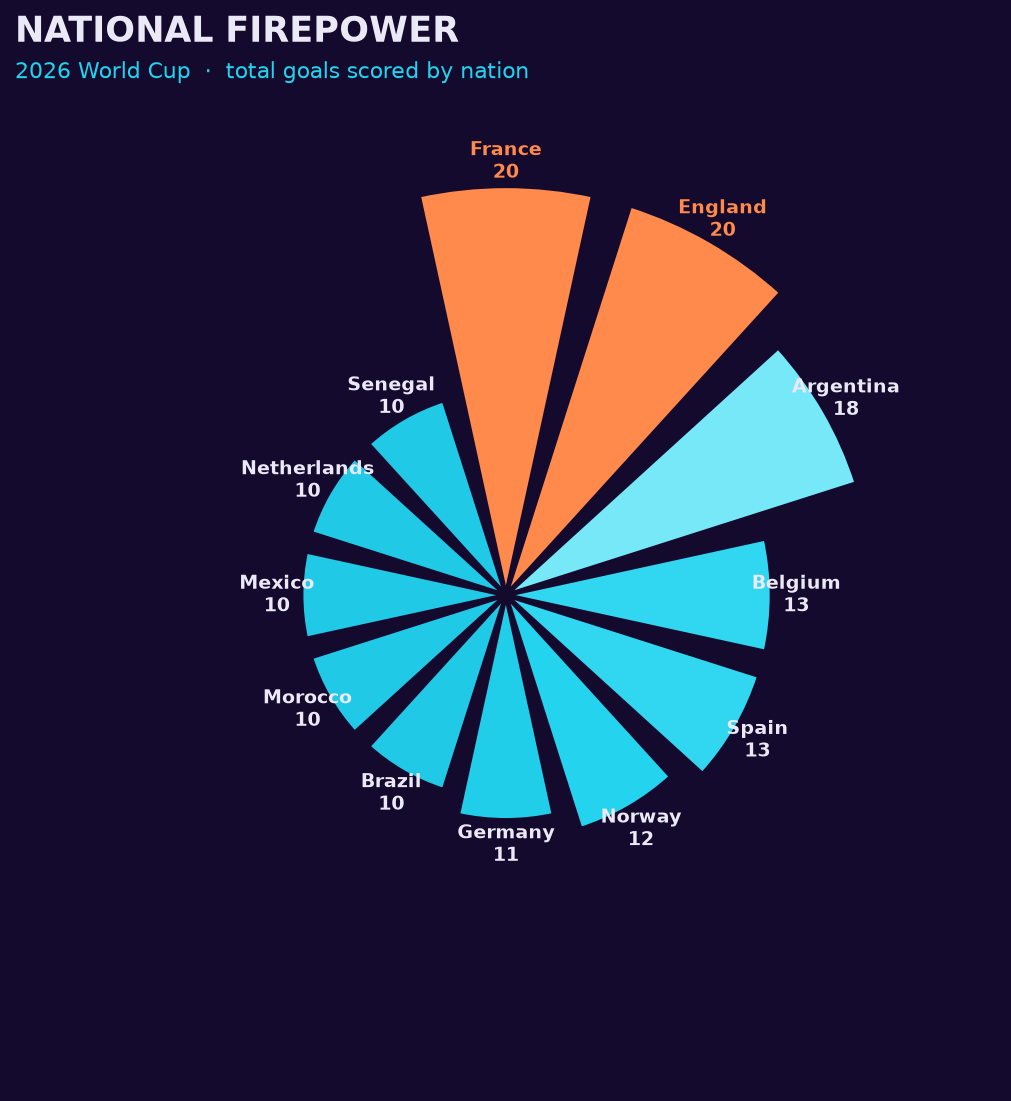
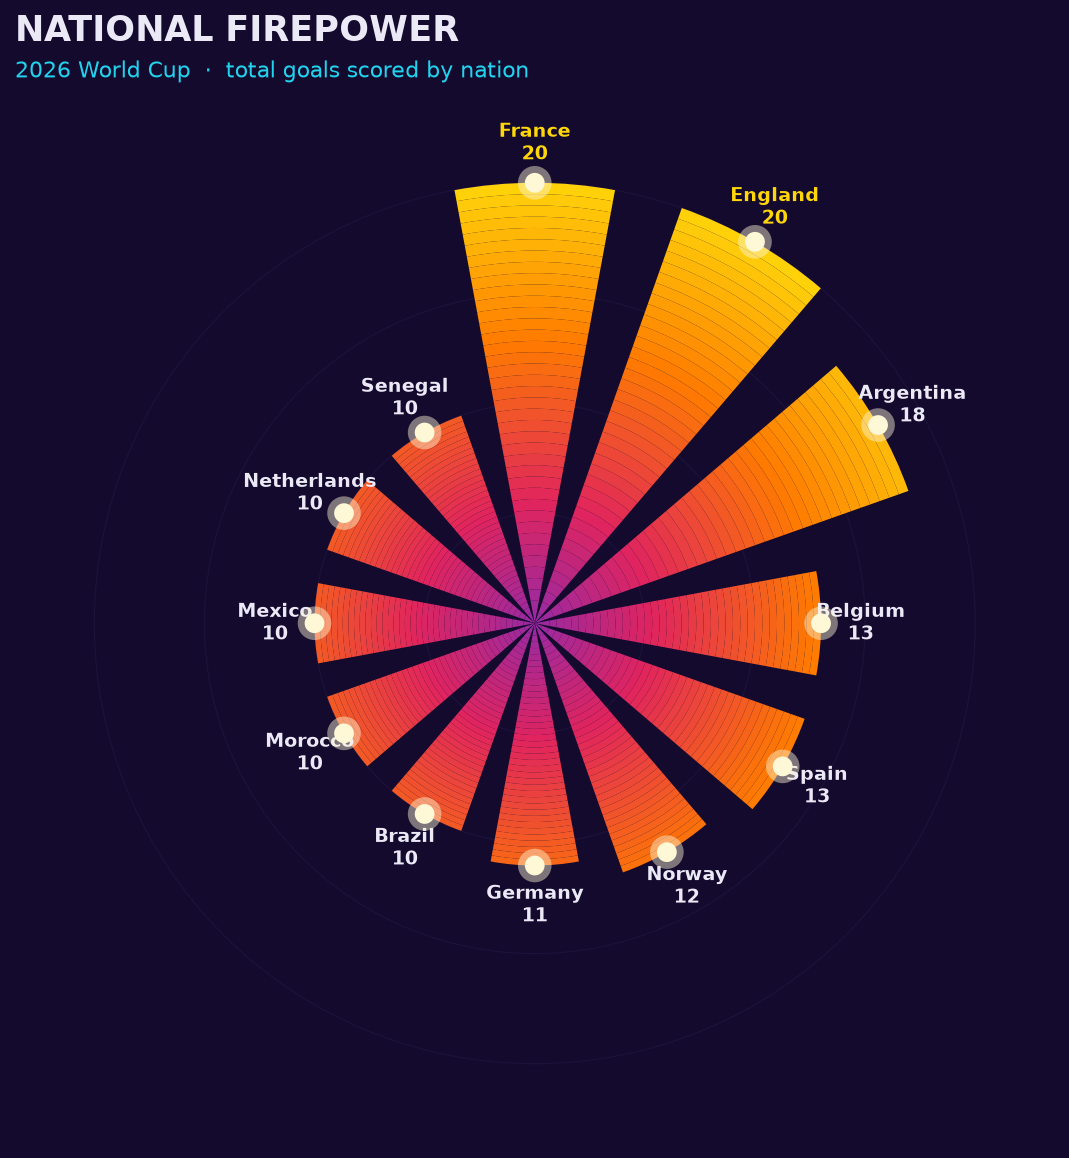
Redesign National Firepower as glowing radial flames
Replace the flat teal radial bars with a warm "firepower" look: each nation
is a flame that heats along its length from a violet base to a gold-hot tip
(a per-bar radius gradient), topped with a glowing bead. Bar length and tip
colour both encode goals, so the biggest sides burn brightest. Drops the
teal ramp for the fire ramp; core.py stays under 200 lines. Updates README.

Claude-Session: https://claude.ai/code/session_0148bkKPynfV42gg72x8rxXR

Changed region(s): [[0.0, 0.0, 0.8892, 0.8029]]

diff --git a/src/viz_lib/core.py b/src/viz_lib/core.py
@@ -1,8 +1,6 @@
 """Aesthetic 2026 World Cup player-stat visualizations, built on matplotlib.
-
-A deep-indigo "midnight pitch" theme with a complementary teal + coral palette.
-Each chart takes a tidy DataFrame from load() and returns an Axes; pass
-save_path= to write a PNG. Named players wear their country's flag.
+Deep-indigo theme; charts take a DataFrame from load(), return an Axes, and
+accept save_path=. Named players wear their country's flag.
 """
 
 from __future__ import annotations
@@ -18,11 +16,11 @@ try:
 except Exception:  # flags degrade gracefully to a plain disc
     _flagpy = None
 
-# ── Palette: complementary teal + coral on a deep indigo night ─────────────
+# ── Palette: coral accent + a warm "firepower" ramp on a deep indigo night ─
 BG, INK, MUTED = "#140a2e", "#ece9f7", "#8b86ad"
 TEAL, CORAL, GRID = "#22d3ee", "#ff8a4c", "#2a2050"
-TEAL_RAMP = mcolors.LinearSegmentedColormap.from_list(
-    "teal", ["#0e5563", "#17a2c4", "#22d3ee", "#a5f3fc"])
+FIRE = mcolors.LinearSegmentedColormap.from_list(
+    "fire", ["#7b2cbf", "#e0245e", "#ff7b00", "#ffd60a"])
 
 # Players always named on the minutes-vs-goals chart.
 REQUIRED = ["Cristiano Ronaldo", "Kylian Mbappé", "Erling Haaland",
@@ -30,7 +28,7 @@ REQUIRED = ["Cristiano Ronaldo", "Kylian Mbappé", "Erling Haaland",
 
 
 def _ax(figsize, polar=False):
-    """A styled figure + axes in the shared midnight-pitch theme."""
+    """A styled figure + axes in the shared theme."""
     fig, ax = plt.subplots(figsize=figsize, subplot_kw={"polar": polar})
     fig.patch.set_facecolor(BG)
     ax.set_facecolor(BG)
@@ -40,7 +38,7 @@ def _ax(figsize, polar=False):
 
 
 def _finish(ax, title, subtitle=None, save_path=None):
-    """Add the editorial headline + teal subtitle, then save/return the axes."""
+    """Editorial headline + teal subtitle, then save/return the axes."""
     ax.set_title(title, color=INK, fontsize=17, fontweight="bold",
                  loc="left", pad=30)
     if subtitle:
@@ -108,12 +106,10 @@ def load(path):
 
 
 def minutes_vs_goals(df, max_avatars=8, save_path=None):
-    """Minutes played (x) vs goals scored (y) for a hand-picked cast.
+    """Minutes played (x) vs goals scored (y) for a curated cast.
 
-    Always names the stars in ``REQUIRED``, then fills the remaining slots (up
-    to ``max_avatars``, to avoid clutter) by splitting them between the most
-    goals in the fewest minutes and the fewest goals in the most minutes. Each
-    player glows coral and wears their country's flag below the chart.
+    Names the REQUIRED stars, then fills up to ``max_avatars`` more slots, split
+    between most goals in fewest minutes and fewest goals in most minutes.
     """
     d = df[df["Min"] > 0].copy()
     d["per90"] = d["Gls"] * 90 / d["Min"]
@@ -173,27 +169,31 @@ def minutes_vs_goals(df, max_avatars=8, save_path=None):
 
 
 def nation_firepower(df, n=12, save_path=None):
-    """Radial bar chart of total goals scored by the top ``n`` nations."""
+    """Radial 'flames': each top-``n`` nation heats from violet to a gold tip.
+
+    Bar length and tip colour both encode goals — the biggest sides burn brightest.
+    """
     g = df.groupby("Country")["Gls"].sum().sort_values(ascending=False).head(n)
-    vals = g.values
-    ax = _ax((8.5, 8.5), polar=True)
+    vals, top = g.values, g.values.max()
+    ax = _ax((9, 9), polar=True)
     theta = np.linspace(0, 2 * np.pi, len(g), endpoint=False)
-    width = 2 * np.pi / len(g) * 0.82
-    colors = [mcolors.to_rgba(CORAL) if v == vals.max()  # leader(s) blaze coral
-              else mcolors.to_rgba(c)
-              for v, c in zip(vals, TEAL_RAMP(0.25 + 0.7 * vals / vals.max()))]
-    ax.bar(theta, vals, width=width, color=colors, edgecolor=BG,
-           linewidth=2, zorder=3)
+    width = 2 * np.pi / len(g) * 0.7
+    for t, v in zip(theta, vals):  # a radius gradient turns each bar into a flame
+        seg = np.linspace(0, v, 40)
+        ax.bar([t] * 39, np.diff(seg), bottom=seg[:-1], width=width,
+               color=FIRE(0.1 + 0.9 * seg[:-1] / top), zorder=3)
+    for s, a in ((260, 0.45), (90, 1.0)):  # glowing hot tips
+        ax.scatter(theta, vals, s=s, color="#fff8d6", alpha=a,
+                   edgecolors="none", zorder=4)
     ax.set_theta_offset(np.pi / 2)
     ax.set_theta_direction(-1)
-    ax.set_xticks([])
-    ax.set_yticks([])
-    ax.set_ylim(0, vals.max() * 1.2)
+    ax.set(xticks=[], yticks=np.arange(5, top + 1, 5), ylim=(0, top * 1.18))
+    ax.set_yticklabels([])
     ax.spines["polar"].set_visible(False)
-    ax.grid(color=GRID, lw=0.7, alpha=0.5)
+    ax.grid(color=GRID, lw=0.6, alpha=0.35)
     for t, (name, val) in zip(theta, g.items()):
-        color = CORAL if val == vals.max() else INK
-        ax.text(t, val + vals.max() * 0.06, f"{name}\n{int(val)}", ha="center",
-                va="center", color=color, fontsize=9, fontweight="bold")
+        ax.text(t, val + top * 0.09, f"{name}\n{int(val)}", ha="center",
+                va="center", color="#ffd60a" if val == top else INK,
+                fontsize=9, fontweight="bold")
     return _finish(ax, "NATIONAL FIREPOWER",
                    "2026 World Cup  ·  total goals scored by nation", save_path)

diff --git a/README.md b/README.md
@@ -66,9 +66,10 @@ clutter — are split between the **most goals in the fewest minutes** and the
 
 ### 🔥 National Firepower — `nation_firepower(df, n=12)`
 
-A radial bar chart of total goals per nation. Bars run a light-to-deep teal
-ramp by goals, and the leading nation(s) blaze coral so the eye lands on them
-first.
+A radial chart where each nation is a **flame**: the bar heats along its length
+from a violet base to a gold-hot tip, topped with a glowing bead. Bar length
+*and* tip colour both encode goals, so the biggest attacking sides literally
+burn the brightest (France and England, tied at 20).
 
 ![National Firepower](examples/charts/nation_firepower.png)
 
@@ -85,12 +86,12 @@ accept `save_path=` to write the figure to disk.
 
 ## Design notes
 
-- **Complementary palette.** Teal (`#22d3ee`) and coral (`#ff8a4c`) sit opposite
-  each other on the colour wheel, so they pop against the deep indigo
-  background without clashing — and the pair stays distinguishable for
-  colourblind readers.
-- **Colour has one job per chart.** Teal always carries the data; coral is
-  reserved for the standout — the top finishers, the leading nations.
+- **A shared deep-indigo stage.** Both charts sit on the same `#140a2e`
+  background, so they read as one set even though each has its own accent — the
+  scatter glows coral, the radial chart burns through a violet→gold fire ramp.
+- **Colour has one job per chart.** On the scatter, coral marks the players
+  against a calm ground; on the radial chart, a single perceptual fire ramp
+  encodes magnitude (never a rainbow), so hotter always means more goals.
 - **Neon glow, honestly.** The bloom on highlighted marks is drawn by stacking
   translucent copies, not faked with a second axis. Two variables on different
   scales (minutes vs goals) are shown as a scatter, never a dual-axis chart.
